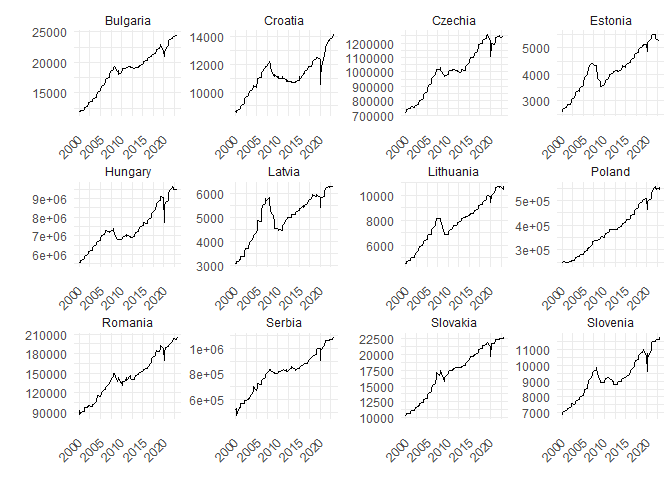
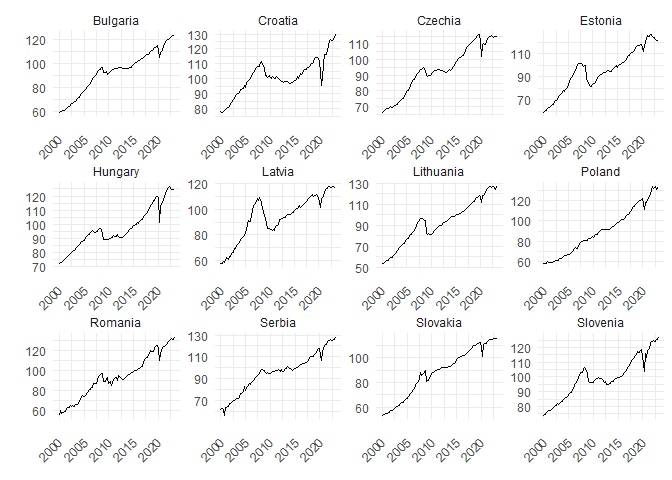
Data pipeline fix: GDP & Wages

diff --git a/data/README.md b/data/README.md
@@ -13,8 +13,8 @@ countries](README_files/figure-gfm/unnamed-chunk-1-1.png)
 
 # GDP
 
-Quarterly Real GDP in national currency, seasonally adjusted, retrieved
-from the IMF IFS database.
+Quarterly Real GDP chained volumes, seasonally adjusted, retrieved from
+Eurostat.
 
 ![GDP in the CEE
 countries](README_files/figure-gfm/unnamed-chunk-2-1.png)
@@ -56,8 +56,7 @@ countries](README_files/figure-gfm/unnamed-chunk-6-1.png)
 
 Quarterly real wage rate indices, seasonally and calendar adjusted,
 measured as wage growth of sectors B-S, adjusted for inflation using GDP
-deflator, retrieved from Eurostat. The series are interpolated from
-quarterly to monthly frequency using spline interpolation.
+deflator, retrieved from Eurostat.
 
 ![Wage rates in the CEE
 countries](README_files/figure-gfm/unnamed-chunk-7-1.png)
